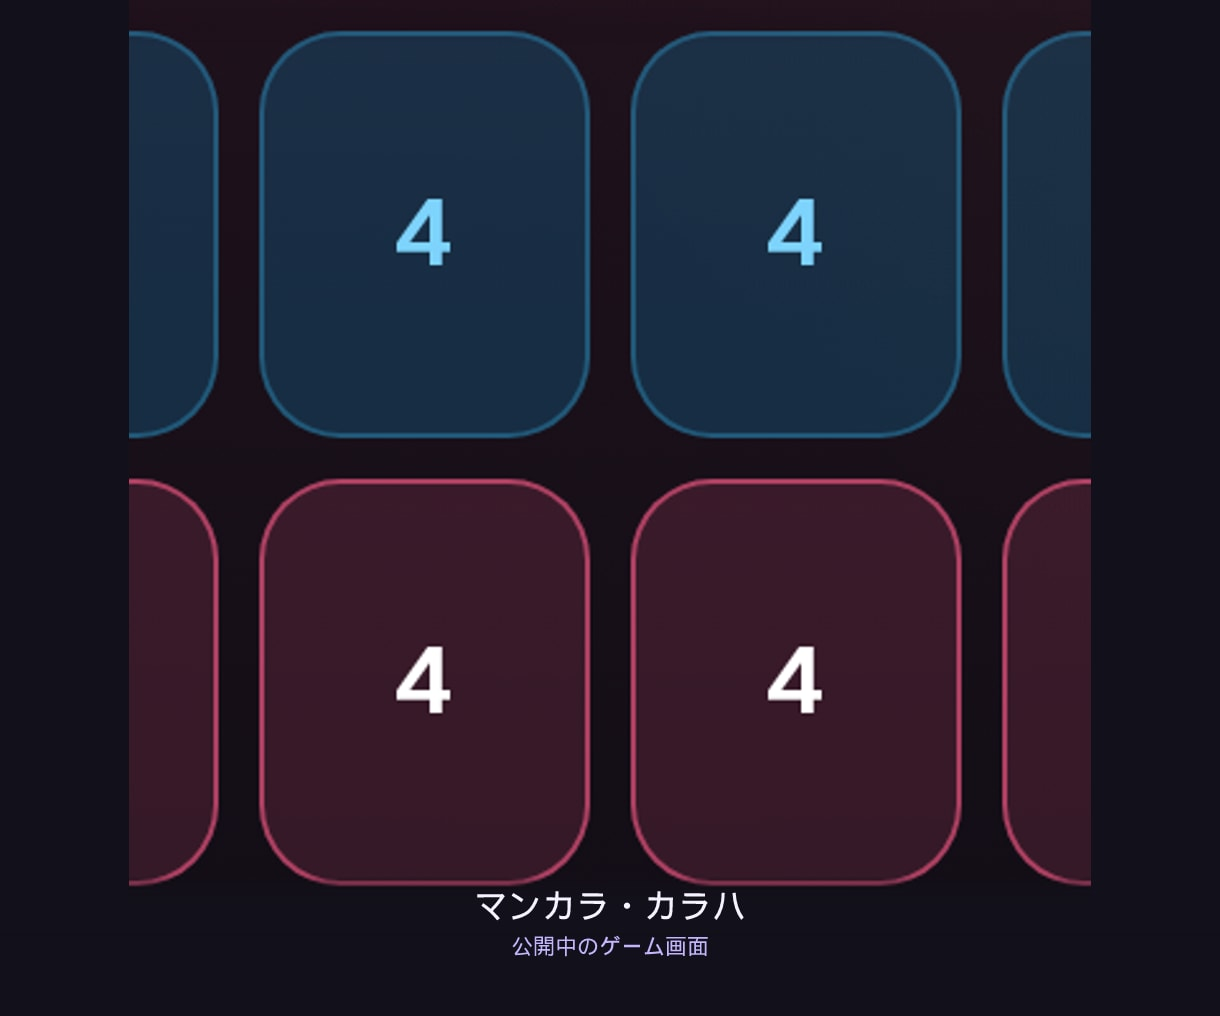
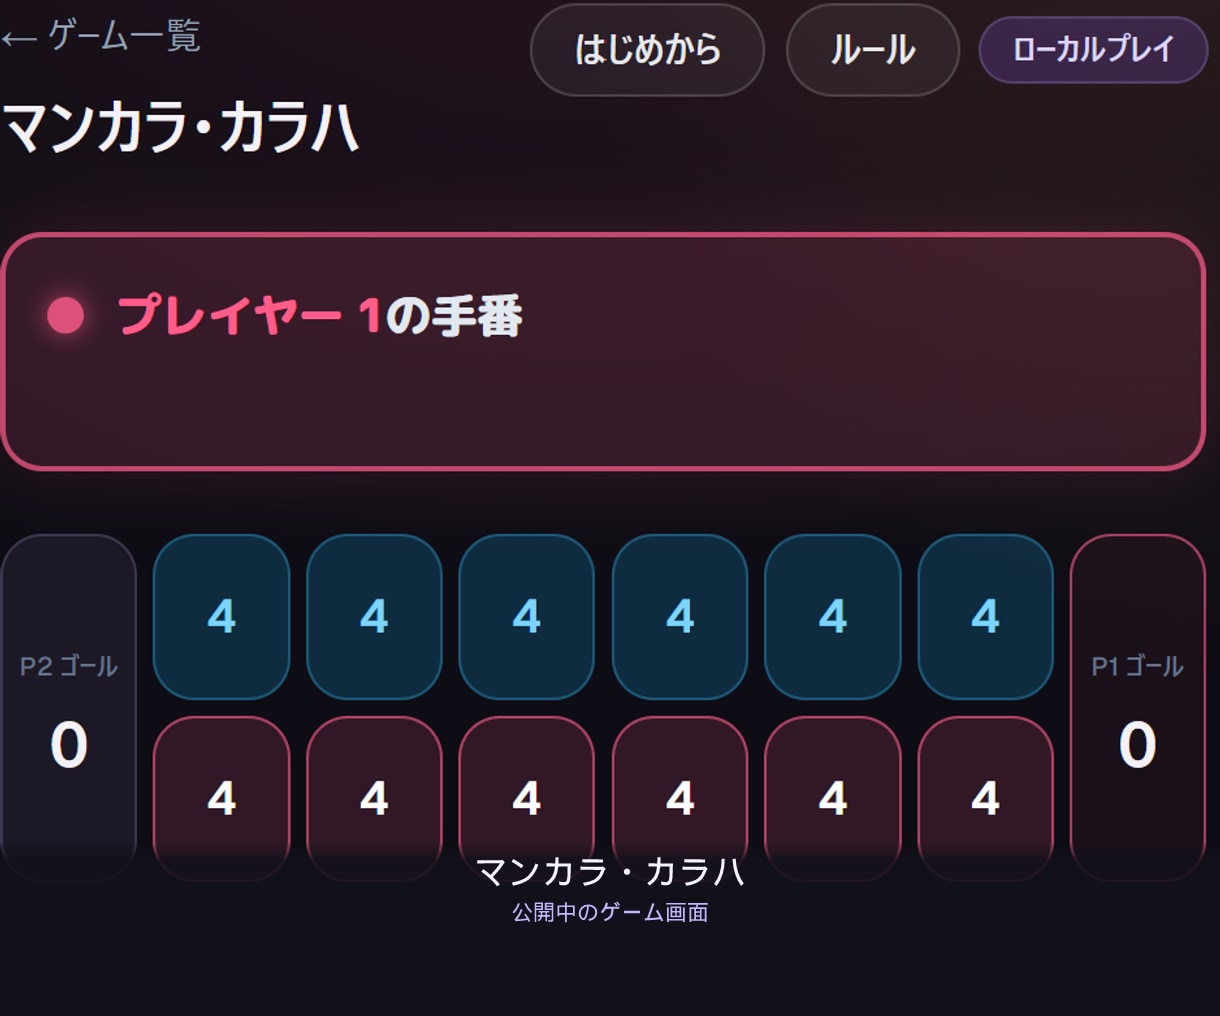
docs(coconala): マンカラサムネを手動スクショに差し替え

diff --git a/docs/coconala/listing.md b/docs/coconala/listing.md
@@ -44,12 +44,12 @@
 | # | ファイル | ゲーム（slug） |
 |---|----------|----------------|
 | 2 | [thumbnail-02.jpg](./thumbnail-02.jpg) | 砲塔戦棋（手動スクショ → [sources/thumbnail-02-source.png](./sources/thumbnail-02-source.png)） |
-| 3 | [thumbnail-03.jpg](./thumbnail-03.jpg) | マンカラ・カラハ（`mancala`） |
+| 3 | [thumbnail-03.jpg](./thumbnail-03.jpg) | マンカラ・カラハ（手動スクショ → [sources/thumbnail-03-source.png](./sources/thumbnail-03-source.png)） |
 | 4 | [thumbnail-04.jpg](./thumbnail-04.jpg) | ルドー（`ludo`） |
 
 ※キャプチャ時はサイト共通ヘッダーを除く。下帯は「公開中のゲーム画面」。
 
-再生成: `npm install playwright sharp @resvg/resvg-js` のあと dev 起動して `node scripts/capture-coconala-play-shots.mjs`
+再生成: 4枚目は `npm install playwright sharp @resvg/resvg-js` のあと dev 起動して `node scripts/capture-coconala-play-shots.mjs`。2・3枚目は `node scripts/compose-coconala-screenshot.mjs`（元 PNG は `docs/coconala/sources/`）
 
 5枚目以降の候補: 購入フロー図、複雑度オプションの説明、別ゲームのスクショ追加。
 
